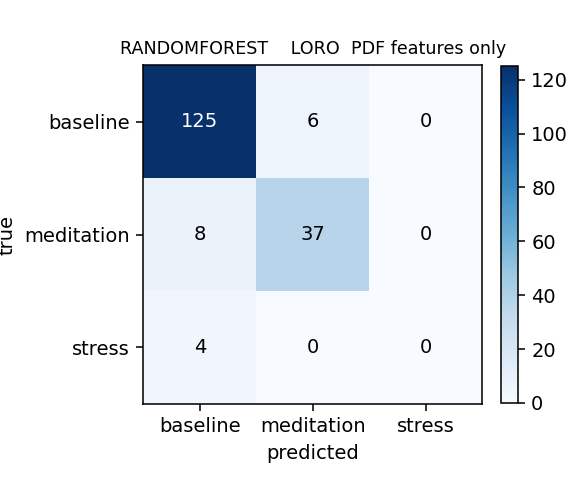
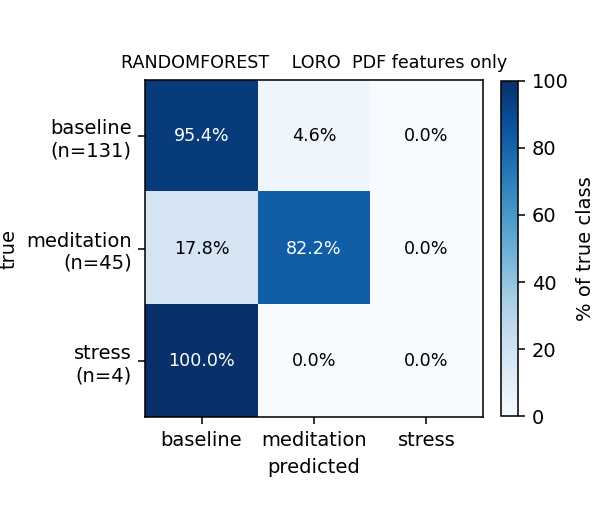
Row-normalize confusion matrices to percent (recall view)
PNG heatmaps and markdown tables now show each row as a percentage of
the true class (sum = 100 %), with a fixed 0-100 % colour scale so
matrices are directly comparable across (model × protocol × config).
Each row carries its support count — essential when `stress` has only
4 samples total under LORO and a 100 % means "1 of 1 got it".

scripts/show_confusion_matrices.py adds:
  - _row_normalize() helper
  - per-row support annotated in the markdown `support` column and on
    each PNG's y-axis tick labels
  - colorbar labelled "% of true class"

confusion-matrices.md regenerated; report.md description updated.

diff --git a/scripts/show_confusion_matrices.py b/scripts/show_confusion_matrices.py
@@ -50,35 +50,70 @@ def _sum_seed_confusions(seed_results: dict, *, dl: bool, model: str | None = No
     return total
 
 
+def _row_normalize(cm: np.ndarray) -> np.ndarray:
+    """Row-normalize a confusion matrix to percentages (true-class recall view).
+
+    Each row sums to 100 %. Rows with zero support stay all-zero.
+    """
+    cm = cm.astype(np.float64)
+    rs = cm.sum(axis=1, keepdims=True)
+    safe = np.where(rs == 0, 1.0, rs)
+    return cm / safe * 100.0
+
+
 def _print_markdown(name: str, cm: np.ndarray, n: int | None = None) -> None:
-    """Print a confusion matrix as a markdown table on stdout."""
+    """Print a row-normalized (percent) confusion matrix as a markdown table.
+
+    Each row sums to 100 % (row-wise recall view). A `support` column shows
+    the number of true samples per class — essential context when `stress`
+    has only 4 windows across the whole experiment.
+    """
+    cm_pct = _row_normalize(cm)
+    supports = cm.sum(axis=1)
     print(f"\n#### {name}" + (f"  *(n_test={n})*" if n is not None else ""))
-    head = "| true \\\\ pred | " + " | ".join(PHASE_CLASSES) + " |"
-    sep = "|---|" + "|".join("---" for _ in PHASE_CLASSES) + "|"
+    head = "| true \\\\ pred | " + " | ".join(PHASE_CLASSES) + " | support |"
+    sep = "|---|" + "|".join("---" for _ in PHASE_CLASSES) + "|---|"
     print(head)
     print(sep)
     for i, c in enumerate(PHASE_CLASSES):
-        row = " | ".join(str(int(v)) for v in cm[i])
-        print(f"| **{c}** | {row} |")
+        cells = " | ".join(f"{cm_pct[i, j]:.1f}%" for j in range(cm_pct.shape[1]))
+        print(f"| **{c}** | {cells} | {int(supports[i])} |")
 
 
 def _save_png(name: str, cm: np.ndarray, slug: str) -> None:
-    """Save a heatmap PNG of one confusion matrix."""
-    fig, ax = plt.subplots(figsize=(4.2, 3.6))
-    im = ax.imshow(cm, cmap="Blues", aspect="equal")
+    """Save a row-normalized (percent) heatmap of one confusion matrix.
+
+    Each row sums to 100 % (true-class recall view). The colour scale is
+    fixed at 0-100 % so heatmaps are directly comparable across (model ×
+    protocol × config) — a row that's "all blue" means perfect recall on
+    that class, regardless of how many samples it contained. True-class
+    support is annotated on the y-axis tick labels.
+    """
+    cm_pct = _row_normalize(cm)
+    supports = cm.sum(axis=1).astype(int)
+    fig, ax = plt.subplots(figsize=(4.4, 3.8))
+    im = ax.imshow(cm_pct, cmap="Blues", aspect="equal", vmin=0, vmax=100)
     ax.set_xticks(range(len(PHASE_CLASSES)))
     ax.set_yticks(range(len(PHASE_CLASSES)))
     ax.set_xticklabels(PHASE_CLASSES)
-    ax.set_yticklabels(PHASE_CLASSES)
+    # Annotate y-tick labels with the per-row support count so a viewer can
+    # tell whether a row is meaningful (105 baseline samples) or near-empty
+    # (4 stress samples).
+    ax.set_yticklabels(
+        [f"{c}\n(n={n})" for c, n in zip(PHASE_CLASSES, supports)]
+    )
     ax.set_xlabel("predicted")
     ax.set_ylabel("true")
     ax.set_title(name, fontsize=9)
-    vmax = cm.max() if cm.size else 1
-    for i in range(cm.shape[0]):
-        for j in range(cm.shape[1]):
-            ax.text(j, i, str(int(cm[i, j])), ha="center", va="center",
-                    color="white" if cm[i, j] > vmax / 2 else "black")
-    plt.colorbar(im, ax=ax, fraction=0.045)
+    for i in range(cm_pct.shape[0]):
+        for j in range(cm_pct.shape[1]):
+            v = cm_pct[i, j]
+            # white on dark cells (>= 50 %), black on light
+            color = "white" if v >= 50 else "black"
+            ax.text(j, i, f"{v:.1f}%", ha="center", va="center",
+                    color=color, fontsize=9)
+    cbar = plt.colorbar(im, ax=ax, fraction=0.045)
+    cbar.set_label("% of true class")
     plt.tight_layout()
     path = FIG_DIR / f"{slug}.png"
     plt.savefig(path, dpi=140)

diff --git a/confusion-matrices.md b/confusion-matrices.md
@@ -1,6 +1,10 @@
 # Confusion matrices — all models × protocols × feature configs
 
-Companion file to [summary-before-data-processing.md](summary-before-data-processing.md). Generated from the run JSONs under `outputs/`. Rows are true labels, columns are predictions.
+Companion file to [summary-before-data-processing.md](summary-before-data-processing.md) and [report.md](report.md). Generated from the run JSONs under `outputs/`.
+
+**Reading the tables.** Rows are true labels, columns are predictions. **Each row is normalized to 100 %** (true-class recall view): the cell at (`stress`, `stress`) is the percentage of actual `stress` windows the model correctly predicted as `stress`. A `support` column shows the raw count of true samples per row — crucial when `stress` has only 4 samples total under LORO and a 100 % means "1 out of 1 got it".
+
+**Reading the PNGs.** Same row-normalization, fixed colour scale 0–100 %, so heatmaps are directly comparable across (model × protocol × config). The y-axis tick labels include the support count.
 
 Heatmap PNGs of every matrix live in [figures/confusion/](figures/confusion/). Regenerate with:
 
@@ -14,64 +18,64 @@ uv run python scripts/show_confusion_matrices.py > confusion-matrices.md
 ### Classical — PDF features only
 
 #### KNN — LORO — PDF features only  *(n_test=180)*
-| true \\ pred | baseline | meditation | stress |
-|---|---|---|---|
-| **baseline** | 120 | 11 | 0 |
-| **meditation** | 11 | 34 | 0 |
-| **stress** | 4 | 0 | 0 |
+| true \\ pred | baseline | meditation | stress | support |
+|---|---|---|---|---|
+| **baseline** | 91.6% | 8.4% | 0.0% | 131 |
+| **meditation** | 24.4% | 75.6% | 0.0% | 45 |
+| **stress** | 100.0% | 0.0% | 0.0% | 4 |
 
 #### RANDOMFOREST — LORO — PDF features only  *(n_test=180)*
-| true \\ pred | baseline | meditation | stress |
-|---|---|---|---|
-| **baseline** | 125 | 6 | 0 |
-| **meditation** | 8 | 37 | 0 |
-| **stress** | 4 | 0 | 0 |
+| true \\ pred | baseline | meditation | stress | support |
+|---|---|---|---|---|
+| **baseline** | 95.4% | 4.6% | 0.0% | 131 |
+| **meditation** | 17.8% | 82.2% | 0.0% | 45 |
+| **stress** | 100.0% | 0.0% | 0.0% | 4 |
 
 #### XGBOOST — LORO — PDF features only  *(n_test=180)*
-| true \\ pred | baseline | meditation | stress |
-|---|---|---|---|
-| **baseline** | 126 | 5 | 0 |
-| **meditation** | 11 | 34 | 0 |
-| **stress** | 3 | 0 | 1 |
+| true \\ pred | baseline | meditation | stress | support |
+|---|---|---|---|---|
+| **baseline** | 96.2% | 3.8% | 0.0% | 131 |
+| **meditation** | 24.4% | 75.6% | 0.0% | 45 |
+| **stress** | 75.0% | 0.0% | 25.0% | 4 |
 
 ### Classical — PDF + temperature
 
 #### KNN — LORO — PDF + temperature  *(n_test=180)*
-| true \\ pred | baseline | meditation | stress |
-|---|---|---|---|
-| **baseline** | 122 | 9 | 0 |
-| **meditation** | 18 | 27 | 0 |
-| **stress** | 4 | 0 | 0 |
+| true \\ pred | baseline | meditation | stress | support |
+|---|---|---|---|---|
+| **baseline** | 93.1% | 6.9% | 0.0% | 131 |
+| **meditation** | 40.0% | 60.0% | 0.0% | 45 |
+| **stress** | 100.0% | 0.0% | 0.0% | 4 |
 
 #### RANDOMFOREST — LORO — PDF + temperature  *(n_test=180)*
-| true \\ pred | baseline | meditation | stress |
-|---|---|---|---|
-| **baseline** | 124 | 7 | 0 |
-| **meditation** | 10 | 35 | 0 |
-| **stress** | 4 | 0 | 0 |
+| true \\ pred | baseline | meditation | stress | support |
+|---|---|---|---|---|
+| **baseline** | 94.7% | 5.3% | 0.0% | 131 |
+| **meditation** | 22.2% | 77.8% | 0.0% | 45 |
+| **stress** | 100.0% | 0.0% | 0.0% | 4 |
 
 #### XGBOOST — LORO — PDF + temperature  *(n_test=180)*
-| true \\ pred | baseline | meditation | stress |
-|---|---|---|---|
-| **baseline** | 126 | 5 | 0 |
-| **meditation** | 5 | 40 | 0 |
-| **stress** | 4 | 0 | 0 |
+| true \\ pred | baseline | meditation | stress | support |
+|---|---|---|---|---|
+| **baseline** | 96.2% | 3.8% | 0.0% | 131 |
+| **meditation** | 11.1% | 88.9% | 0.0% | 45 |
+| **stress** | 100.0% | 0.0% | 0.0% | 4 |
 
 ### 1D-CNN — LORO
 
 #### 1D-CNN — LORO — PDF channels (3 ch)  *(n_test=174)*
-| true \\ pred | baseline | meditation | stress |
-|---|---|---|---|
-| **baseline** | 83 | 33 | 9 |
-| **meditation** | 19 | 26 | 0 |
-| **stress** | 2 | 2 | 0 |
+| true \\ pred | baseline | meditation | stress | support |
+|---|---|---|---|---|
+| **baseline** | 66.4% | 26.4% | 7.2% | 125 |
+| **meditation** | 42.2% | 57.8% | 0.0% | 45 |
+| **stress** | 50.0% | 50.0% | 0.0% | 4 |
 
 #### 1D-CNN — LORO — PDF + temperature (4 ch)  *(n_test=174)*
-| true \\ pred | baseline | meditation | stress |
-|---|---|---|---|
-| **baseline** | 105 | 11 | 9 |
-| **meditation** | 14 | 31 | 0 |
-| **stress** | 2 | 0 | 2 |
+| true \\ pred | baseline | meditation | stress | support |
+|---|---|---|---|---|
+| **baseline** | 84.0% | 8.8% | 7.2% | 125 |
+| **meditation** | 31.1% | 68.9% | 0.0% | 45 |
+| **stress** | 50.0% | 0.0% | 50.0% | 4 |
 
 
 ## Random-split confusion matrices (sum across 5 seeds)
@@ -80,61 +84,61 @@ uv run python scripts/show_confusion_matrices.py > confusion-matrices.md
 ### Classical — PDF features only
 
 #### KNN — random 70:15:15 — PDF features only  *(n_test=135)*
-| true \\ pred | baseline | meditation | stress |
-|---|---|---|---|
-| **baseline** | 90 | 9 | 0 |
-| **meditation** | 10 | 24 | 0 |
-| **stress** | 2 | 0 | 0 |
+| true \\ pred | baseline | meditation | stress | support |
+|---|---|---|---|---|
+| **baseline** | 90.9% | 9.1% | 0.0% | 99 |
+| **meditation** | 29.4% | 70.6% | 0.0% | 34 |
+| **stress** | 100.0% | 0.0% | 0.0% | 2 |
 
 #### RANDOMFOREST — random 70:15:15 — PDF features only  *(n_test=135)*
-| true \\ pred | baseline | meditation | stress |
-|---|---|---|---|
-| **baseline** | 93 | 6 | 0 |
-| **meditation** | 6 | 28 | 0 |
-| **stress** | 2 | 0 | 0 |
+| true \\ pred | baseline | meditation | stress | support |
+|---|---|---|---|---|
+| **baseline** | 93.9% | 6.1% | 0.0% | 99 |
+| **meditation** | 17.6% | 82.4% | 0.0% | 34 |
+| **stress** | 100.0% | 0.0% | 0.0% | 2 |
 
 #### XGBOOST — random 70:15:15 — PDF features only  *(n_test=135)*
-| true \\ pred | baseline | meditation | stress |
-|---|---|---|---|
-| **baseline** | 94 | 5 | 0 |
-| **meditation** | 5 | 29 | 0 |
-| **stress** | 2 | 0 | 0 |
+| true \\ pred | baseline | meditation | stress | support |
+|---|---|---|---|---|
+| **baseline** | 94.9% | 5.1% | 0.0% | 99 |
+| **meditation** | 14.7% | 85.3% | 0.0% | 34 |
+| **stress** | 100.0% | 0.0% | 0.0% | 2 |
 
 ### Classical — PDF + temperature
 
 #### KNN — random 70:15:15 — PDF + temperature  *(n_test=135)*
-| true \\ pred | baseline | meditation | stress |
-|---|---|---|---|
-| **baseline** | 90 | 9 | 0 |
-| **meditation** | 13 | 21 | 0 |
-| **stress** | 2 | 0 | 0 |
+| true \\ pred | baseline | meditation | stress | support |
+|---|---|---|---|---|
+| **baseline** | 90.9% | 9.1% | 0.0% | 99 |
+| **meditation** | 38.2% | 61.8% | 0.0% | 34 |
+| **stress** | 100.0% | 0.0% | 0.0% | 2 |
 
 #### RANDOMFOREST — random 70:15:15 — PDF + temperature  *(n_test=135)*
-| true \\ pred | baseline | meditation | stress |
-|---|---|---|---|
-| **baseline** | 93 | 6 | 0 |
-| **meditation** | 6 | 28 | 0 |
-| **stress** | 2 | 0 | 0 |
+| true \\ pred | baseline | meditation | stress | support |
+|---|---|---|---|---|
+| **baseline** | 93.9% | 6.1% | 0.0% | 99 |
+| **meditation** | 17.6% | 82.4% | 0.0% | 34 |
+| **stress** | 100.0% | 0.0% | 0.0% | 2 |
 
 #### XGBOOST — random 70:15:15 — PDF + temperature  *(n_test=135)*
-| true \\ pred | baseline | meditation | stress |
-|---|---|---|---|
-| **baseline** | 94 | 5 | 0 |
-| **meditation** | 6 | 28 | 0 |
-| **stress** | 2 | 0 | 0 |
+| true \\ pred | baseline | meditation | stress | support |
+|---|---|---|---|---|
+| **baseline** | 94.9% | 5.1% | 0.0% | 99 |
+| **meditation** | 17.6% | 82.4% | 0.0% | 34 |
+| **stress** | 100.0% | 0.0% | 0.0% | 2 |
 
 ### 1D-CNN — random 70:15:15
 
 #### 1D-CNN — random 70:15:15 — PDF channels (3 ch)  *(n_test=135)*
-| true \\ pred | baseline | meditation | stress |
-|---|---|---|---|
-| **baseline** | 84 | 8 | 2 |
-| **meditation** | 7 | 29 | 2 |
-| **stress** | 1 | 0 | 2 |
+| true \\ pred | baseline | meditation | stress | support |
+|---|---|---|---|---|
+| **baseline** | 89.4% | 8.5% | 2.1% | 94 |
+| **meditation** | 18.4% | 76.3% | 5.3% | 38 |
+| **stress** | 33.3% | 0.0% | 66.7% | 3 |
 
 #### 1D-CNN — random 70:15:15 — PDF + temperature (4 ch)  *(n_test=135)*
-| true \\ pred | baseline | meditation | stress |
-|---|---|---|---|
-| **baseline** | 90 | 0 | 4 |
-| **meditation** | 2 | 36 | 0 |
-| **stress** | 2 | 0 | 1 |
+| true \\ pred | baseline | meditation | stress | support |
+|---|---|---|---|---|
+| **baseline** | 95.7% | 0.0% | 4.3% | 94 |
+| **meditation** | 5.3% | 94.7% | 0.0% | 38 |
+| **stress** | 66.7% | 0.0% | 33.3% | 3 |

diff --git a/report.md b/report.md
@@ -114,7 +114,9 @@ Only two recordings (`pla-1`, `pla-2`) contain any `stress` windows, and they to
 
 ## 5. Confusion matrices
 
-Rows are true labels, columns are predictions. All matrices sum across folds (LORO: 7 folds, ~180 test predictions) or across seeds (random-split: 5 seeds × 27 = 135 test predictions). Diagonal cells = correct; off-diagonal cells = errors.
+Rows are true labels, columns are predictions. **Each row is row-normalized to 100 %** (true-class recall view): the cell at (`baseline`, `baseline`) is the percentage of actual baseline windows the model correctly predicted as baseline. Support counts (number of true samples in each row) are written under the y-axis tick labels in every PNG and in the [confusion-matrices.md](confusion-matrices.md) companion file — crucial when `stress` has only 4 samples total under LORO.
+
+All matrices sum across folds (LORO: 7 folds, ~180 test predictions) or across seeds (random-split: 5 seeds × 27 = 135 test predictions). Diagonal cells = correct; off-diagonal cells = errors.
 
 ### 5.1 LORO — Classical (PDF features only)
 
